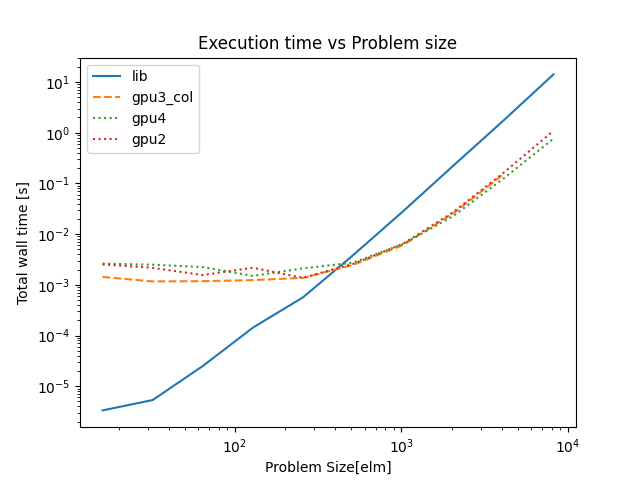
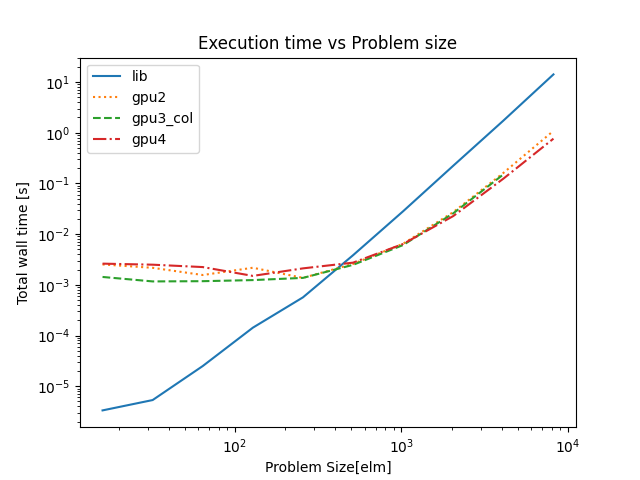
dataHandling

diff --git a/Assignment3/matmult_Results/matmultPlotTimeEx3.py b/Assignment3/matmult_Results/matmultPlotTimeEx3.py
@@ -1,0 +1,96 @@
+import numpy as np
+import pandas as pd
+import matplotlib.pyplot as plt
+
+with open("datmatmult_time_lib.dat") as f:
+    content = f.readlines()
+
+content = [x.strip() for x in content]
+content = np.array(content)
+
+# Split data into runs
+content = np.split(content, len(content)/5)
+
+lib = pd.DataFrame(columns=["Problem Size[elm]", "Wall time[s]", "Permutation"])
+
+for (i, run) in enumerate(content):
+    size = int(run[-1].split(' ')[-1])
+    Wtime = (float(run[0].split(' ')[-1]) + float(run[1].split(' ')[-1]) + float(run[2].split(' ')[-1])) /3
+    Perm = str(run[-1].split(' ')[-3])
+    row = [size, Wtime, Perm]
+    lib.loc[i] = row
+
+
+with open("datmatmult_time_gpu5.dat") as f:
+    content = f.readlines()
+
+content = [x.strip() for x in content]
+content = np.array(content)
+
+# Split data into runs
+content = np.split(content, len(content)/8)
+
+data = pd.DataFrame(columns=["Problem Size[elm]", "Kernel wall time[s]", "Memory wall time[s]", "Permutation"])
+
+for (i, run) in enumerate(content):
+    size = int(run[-1].split(' ')[-1])
+    Wtime = float(float(run[0].split(' ')[-1]) + float(run[2].split(' ')[-1]) + float(run[4].split(' ')[-1])) /3
+    Mtime = float(float(run[1].split(' ')[-1]) + float(run[3].split(' ')[-1]) + float(run[5].split(' ')[-1])) /3
+    Perm = str(run[-1].split(' ')[-3])
+    row = [size, Wtime, Mtime, Perm]
+    data.loc[i] = row
+
+with open("datmatmult_time_gpu4.dat") as f:
+    content = f.readlines()
+
+content = [x.strip() for x in content]
+content = np.array(content)
+
+# Split data into runs
+content = np.split(content, len(content)/8)
+
+data1 = pd.DataFrame(columns=["Problem Size[elm]", "Kernel wall time[s]", "Memory wall time[s]", "Permutation"])
+
+for (i, run) in enumerate(content):
+    size = int(run[-1].split(' ')[-1])
+    Wtime = float(float(run[0].split(' ')[-1]) + float(run[2].split(' ')[-1]) + float(run[4].split(' ')[-1])) /3
+    Mtime = float(float(run[1].split(' ')[-1]) + float(run[3].split(' ')[-1]) + float(run[5].split(' ')[-1])) /3
+    Perm = str(run[-1].split(' ')[-3])
+    row = [size, Wtime, Mtime, Perm]
+    data1.loc[i] = row
+
+with open("datmatmult_time_gpu2.dat") as f:
+    content = f.readlines()
+
+content = [x.strip() for x in content]
+content = np.array(content)
+
+# Split data into runs
+content = np.split(content, len(content)/8)
+
+data2 = pd.DataFrame(columns=["Problem Size[elm]", "Kernel wall time[s]", "Memory wall time[s]", "Permutation"])
+
+for (i, run) in enumerate(content):
+    size = int(run[-1].split(' ')[-1])
+    Wtime = float(float(run[0].split(' ')[-1]) + float(run[2].split(' ')[-1]) + float(run[4].split(' ')[-1])) /3
+    Mtime = float(float(run[1].split(' ')[-1]) + float(run[3].split(' ')[-1]) + float(run[5].split(' ')[-1])) /3
+    Perm = str(run[-1].split(' ')[-3])
+    row = [size, Wtime, Mtime, Perm]
+    data2.loc[i] = row
+
+
+sets = ["lib", "gpu1", "gpu2"]
+plot_names = ["Execution time vs Problem size", "Bla"]
+
+plt.figure(plot_names[0])
+plt.plot(lib["Problem Size[elm]"], lib["Wall time[s]"], label = lib["Permutation"][1], linestyle="-")
+plt.plot(data2["Problem Size[elm]"], data2["Kernel wall time[s]"] + data2["Memory wall time[s]"], label = data2["Permutation"][1], linestyle=":")
+plt.plot(data1["Problem Size[elm]"], data1["Kernel wall time[s]"] + data1["Memory wall time[s]"], label = data1["Permutation"][1], linestyle=":")
+plt.plot(data["Problem Size[elm]"], data["Kernel wall time[s]"] + data["Memory wall time[s]"], label = data["Permutation"][1], linestyle="--")
+plt.legend()
+plt.xlabel("Problem Size[elm]")
+plt.ylabel("Total wall time [s]")
+plt.title(plot_names[0])
+plt.yscale("log")
+plt.xscale("log")
+plt.show()

diff --git a/Assignment3/matmult_Results/matmultPlotTimeEx2_2.py b/Assignment3/matmult_Results/matmultPlotTimeEx2_2.py
@@ -20,6 +20,24 @@ for (i, run) in enumerate(content):
     row = [size, Wtime, Perm]
     lib.loc[i] = row
 
+with open("datmatmult_time_gpu2.dat") as f:
+    content = f.readlines()
+
+content = [x.strip() for x in content]
+content = np.array(content)
+
+# Split data into runs
+content = np.split(content, len(content)/8)
+
+data2 = pd.DataFrame(columns=["Problem Size[elm]", "Kernel wall time[s]", "Memory wall time[s]", "Permutation"])
+
+for (i, run) in enumerate(content):
+    size = int(run[-1].split(' ')[-1])
+    Wtime = float(float(run[0].split(' ')[-1]) + float(run[2].split(' ')[-1]) + float(run[4].split(' ')[-1])) /3
+    Mtime = float(float(run[1].split(' ')[-1]) + float(run[3].split(' ')[-1]) + float(run[5].split(' ')[-1])) /3
+    Perm = str(run[-1].split(' ')[-3])
+    row = [size, Wtime, Mtime, Perm]
+    data2.loc[i] = row
 
 with open("datmatmult_time_gpu3.dat") as f:
     content = f.readlines()
@@ -59,24 +77,7 @@ for (i, run) in enumerate(content):
     row = [size, Wtime, Mtime, Perm]
     data1.loc[i] = row
 
-with open("datmatmult_time_gpu2.dat") as f:
-    content = f.readlines()
 
-content = [x.strip() for x in content]
-content = np.array(content)
-
-# Split data into runs
-content = np.split(content, len(content)/8)
-
-data2 = pd.DataFrame(columns=["Problem Size[elm]", "Kernel wall time[s]", "Memory wall time[s]", "Permutation"])
-
-for (i, run) in enumerate(content):
-    size = int(run[-1].split(' ')[-1])
-    Wtime = float(float(run[0].split(' ')[-1]) + float(run[2].split(' ')[-1]) + float(run[4].split(' ')[-1])) /3
-    Mtime = float(float(run[1].split(' ')[-1]) + float(run[3].split(' ')[-1]) + float(run[5].split(' ')[-1])) /3
-    Perm = str(run[-1].split(' ')[-3])
-    row = [size, Wtime, Mtime, Perm]
-    data2.loc[i] = row
 
 
 sets = ["lib", "gpu1", "gpu2"]
@@ -84,9 +85,9 @@ plot_names = ["Execution time vs Problem size", "Bla"]
 
 plt.figure(plot_names[0])
 plt.plot(lib["Problem Size[elm]"], lib["Wall time[s]"], label = lib["Permutation"][1], linestyle="-")
-plt.plot(data["Problem Size[elm]"], data["Kernel wall time[s]"] + data["Memory wall time[s]"], label = "gpu3_col", linestyle="--")
-plt.plot(data1["Problem Size[elm]"], data1["Kernel wall time[s]"] + data1["Memory wall time[s]"], label = data1["Permutation"][1], linestyle=":")
 plt.plot(data2["Problem Size[elm]"], data2["Kernel wall time[s]"] + data2["Memory wall time[s]"], label = data2["Permutation"][1], linestyle=":")
+plt.plot(data["Problem Size[elm]"], data["Kernel wall time[s]"] + data["Memory wall time[s]"], label = "gpu3_col", linestyle="--")
+plt.plot(data1["Problem Size[elm]"], data1["Kernel wall time[s]"] + data1["Memory wall time[s]"], label = data1["Permutation"][1], linestyle="-.")
 plt.legend()
 plt.xlabel("Problem Size[elm]")
 plt.ylabel("Total wall time [s]")
